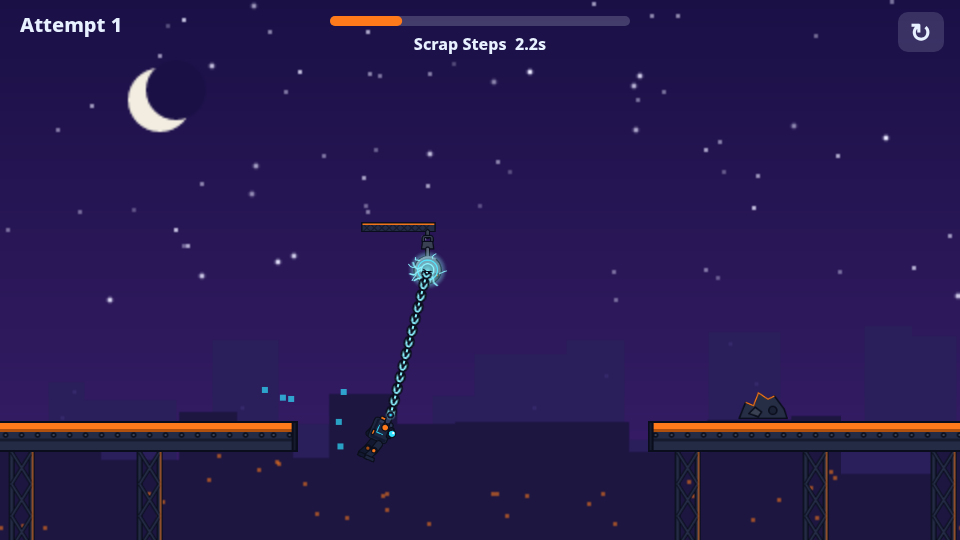
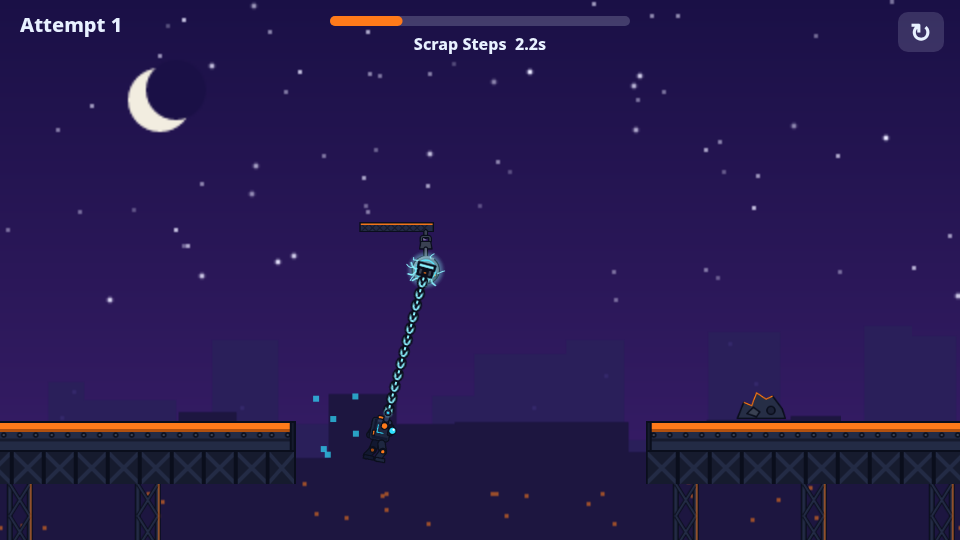
Clean title menu (START + LEVELS), separate level-select screen with Back

diff --git a/main.js b/main.js
@@ -13,20 +13,23 @@ let ac=null;function blip(f,d,type){try{ac=ac||new AudioContext();const o=ac.cre
 function start(i){for(const k in evT)delete evT[k];prevMode='ground';bot=null;tapQ=false;li=i;s=S.create(i);screen='play';camX=0;parts=[];trail=[];}
 function restart(){attempts++;start(li);}
 function burst(x,y,col,n){for(let i=0;i<n;i++){const a=Math.random()*6.28,v=60+Math.random()*260;parts.push({x,y,vx:Math.cos(a)*v,vy:Math.sin(a)*v-80,l:.6,col});}}
-function menuAct(){if(screen==='title'){attempts=1;start(sel);}else if(screen==='done'){if(sel===0&&li+1<S.LEVELS.length){attempts=1;start(li+1);}else if(sel===1){attempts=1;start(li);}else{screen='title';sel=Math.min(li+1,S.LEVELS.length-1);}}}
+const firstOpen=()=>{const i=S.LEVELS.findIndex((_,i)=>!best[i]);return i<0?0:i;};
+function menuAct(){if(screen==='title'){attempts=1;start(firstOpen());}else if(screen==='levels'){attempts=1;start(sel);}else if(screen==='done'){if(sel===0&&li+1<S.LEVELS.length){attempts=1;start(li+1);}else if(sel===1){attempts=1;start(li);}else{screen='title';sel=Math.min(li+1,S.LEVELS.length-1);}}}
+function openLevels(){screen='levels';sel=firstOpen();}
 addEventListener('keydown',e=>{const k=e.code;if(keys[k])return;keys[k]=true;
  if(['Space','ArrowUp','ArrowDown','ArrowLeft','ArrowRight'].includes(k))e.preventDefault();
- if(screen!=='play'){const n=screen==='title'?S.LEVELS.length:3;
+ if(screen!=='play'){if(screen==='title'){if(k==='KeyL')openLevels();else if(k==='Enter'||k==='Space')menuAct();return;}const n=screen==='levels'?S.LEVELS.length:3;
   if(k==='ArrowLeft'||k==='KeyA')sel=(sel+n-1)%n;if(k==='ArrowRight'||k==='KeyD')sel=(sel+1)%n;
-  const st=screen==='title'?4:1;if(k==='ArrowUp'||k==='KeyW')sel=(sel+n-st)%n;if(k==='ArrowDown'||k==='KeyS')sel=(sel+st)%n;
-  if(k==='Enter'||k==='Space')menuAct();if(k==='Escape')screen='title';return;}
+  const st=screen==='levels'?4:1;if(k==='ArrowUp'||k==='KeyW')sel=(sel+n-st)%n;if(k==='ArrowDown'||k==='KeyS')sel=(sel+st)%n;
+  if(k==='Enter'||k==='Space')menuAct();if(k==='Escape'||k==='Backspace')screen='title';return;}
  if(k==='KeyR'){restart();}if((k==='Space'||k==='ArrowUp'||k==='KeyW')&&!e.repeat)tapQ=true;if(k==='Escape'){screen='title';sel=li;}});
 addEventListener('keyup',e=>{keys[e.code]=false;});
 function tpos(t){const r=cv.getBoundingClientRect(),d=devicePixelRatio||1;return {x:((t.clientX-r.left)*d-ox)/scale,y:((t.clientY-r.top)*d-oy)/scale};}
 let menuBoxes=[];
 function onDown(pt){if(screen!=='play'){let hit=null;const P=18;for(const b of menuBoxes)if(pt.x>b.x-P&&pt.x<b.x+b.w+P&&pt.y>b.y-P&&pt.y<b.y+b.h+P){hit=b;break;}
+  if(hit&&hit.i==='levels'){openLevels();return;}if(hit&&hit.i==='back'){screen='title';return;}
   if(hit){if(hit.i!=='start')sel=hit.i;}else if(screen!=='title')return;
-  if(screen==='title'){attempts=1;start(sel);}else menuAct();return;}
+  menuAct();return;}
  if(pt.x>VW-70&&pt.y<60){restart();return;}if(!inPump(pt))tapQ=true;}
 const isG=pt=>screen==='play'&&!inPump(pt)&&!(pt.x>VW-70&&pt.y<60);
 cv.addEventListener('pointerdown',e=>{e.preventDefault();try{cv.setPointerCapture(e.pointerId)}catch(_){}const pt=tpos(e);pt.g=isG(pt);onDown(pt);ptrs[e.pointerId]=pt;updDir();});
@@ -141,15 +144,18 @@ function button(x,y,w,h,label,i,on,ring){if(ring)rr(x-5,y-5,w+10,h+10,18,C.playe
 function draw(){cx.setTransform(1,0,0,1,0,0);cx.fillStyle=C.sky;cx.fillRect(0,0,cv.width,cv.height);cx.setTransform(scale,0,0,scale,ox,oy);
  cx.save();cx.beginPath();cx.rect(0,0,VW,VH);cx.clip();const gr=cx.createLinearGradient(0,0,0,VH);gr.addColorStop(0,C.sky);gr.addColorStop(1,C.sky2);C=ART.ok?CN:C0;if(ART.ok)drawBG(screen==='title'?performance.now()/30:camX);else{cx.fillStyle=gr;cx.fillRect(0,0,VW,VH);}
  menuBoxes=[];
- if(screen==='title'){if(ART.ok)drawBot('idle_0'+(Math.floor(performance.now()/180)%4),VW/2+330,150,0,0.8,false);txt('SWING',VW/2-130,92,72,C.player);txt('grab • swing • release',VW/2-130,124,18);
-  button(VW/2+20,40,250,80,`▶ START`,'start',true);txt(`${sel+1}. ${S.LEVELS[sel].name}`,VW/2+145,140,16,C.text);
-  const DC={easy:'#3ec46d',normal:'#2FE0FF',hard:'#ff4d6d'},done=Object.keys(best).length;
-  S.LEVELS.forEach((L,i)=>{const c=i%4,rw=(i/4)|0,x=VW/2-430+c*218,y=160+rw*92,w=206,h=80,on=sel===i;
+ const HELP='Press SPACE/↑/W or screen to grab   •   let go to launch   •   ←/→, A/D or bottom corners = pump   •   R = restart';
+ if(screen==='title'){const fo=firstOpen(),done=Object.keys(best).length;if(ART.ok)drawBot('idle_0'+(Math.floor(performance.now()/180)%4),VW/2+290,250,0,1.1,false);
+  txt('SWING',VW/2,140,110,C.player);txt('grab • swing • release',VW/2,180,22);
+  button(VW/2-190,220,380,100,'▶  START','start',true);txt(`${fo+1}. ${S.LEVELS[fo].name}  •  ${done}/${S.LEVELS.length} cleared`,VW/2,350,17,C.text);
+  button(VW/2-110,380,220,60,'LEVELS','levels',false);txt(HELP,VW/2,510,14);}
+ else if(screen==='levels'){const DC={easy:'#3ec46d',normal:'#2FE0FF',hard:'#ff4d6d'},done=Object.keys(best).length;
+  button(20,18,140,56,'◀ Back','back',false);txt('LEVELS',VW/2,62,44,C.player);txt(`${done}/${S.LEVELS.length} cleared`,VW-30,58,18,'#3ec46d','right');
+  S.LEVELS.forEach((L,i)=>{const c=i%4,rw=(i/4)|0,x=VW/2-430+c*218,y=110+rw*100,w=206,h=86,on=sel===i;
    if(on)rr(x-4,y-4,w+8,h+8,16,C.player);rr(x,y,w,h,12,C.btn||'#fff');rr(x,y,8,h,4,DC[L.diff]||'#888');
-   txt(`${i+1}. ${L.name}`,x+18,y+32,19,C.text,'left');txt(L.diff.toUpperCase(),x+18,y+60,13,DC[L.diff],'left');
-   if(best[i]){txt('✓ '+best[i].toFixed(1)+'s',x+w-12,y+60,14,'#3ec46d','right');}menuBoxes.push({x,y,w,h,i});});
-  txt(`${done}/${S.LEVELS.length} cleared`,VW/2-130,146,14,"#3ec46d");
-  txt('Press SPACE/↑/W or screen to grab   •   let go to launch   •   ←/→, A/D or bottom corners = pump   •   R = restart',VW/2,522,14);}
+   txt(`${i+1}. ${L.name}`,x+18,y+34,19,C.text,'left');txt(L.diff.toUpperCase(),x+18,y+64,13,DC[L.diff],'left');
+   if(best[i]){txt('✓ '+best[i].toFixed(1)+'s',x+w-12,y+64,14,'#3ec46d','right');}menuBoxes.push({x,y,w,h,i});});
+  txt('Tap a level to play  •  ←↑→↓ + Enter  •  Esc = back',VW/2,510,15);}
  else{if(ART.ok)drawWorldArt();else drawWorld();if(screen==='done'){cx.fillStyle=ART.ok?'rgba(10,14,28,.72)':'rgba(255,255,255,.75)';cx.fillRect(0,0,VW,VH);txt('Level complete!',VW/2,170,56,C.player);if(ART.ok)drawBot('idle_0'+(Math.floor(performance.now()/180)%4),VW/2,470,0,0.9,false);
   txt(`Time ${doneT.toFixed(2)}s   •   Attempts ${attempts}`,VW/2,225,24);
   const hasNext=li+1<S.LEVELS.length;button(VW/2-330,280,200,70,hasNext?'Next level':'—',0,sel===0);button(VW/2-100,280,200,70,'Replay',1,sel===1);button(VW/2+130,280,200,70,'Menu',2,sel===2);}}

diff --git a/test/touch.js b/test/touch.js
@@ -8,12 +8,15 @@ for(const noRR of [false,true])for(const [w,h,d,mob] of [[960,540,1,false],[844,
  const p=await b.newPage();const errs=[];p.on('pageerror',e=>errs.push(String(e)));p.on('console',m=>{if(m.type()==='error')errs.push(m.text())});
  if(noRR)await p.evaluateOnNewDocument(()=>{delete CanvasRenderingContext2D.prototype.roundRect;});
  await p.setViewport({width:w,height:h,deviceScaleFactor:d,isMobile:mob,hasTouch:mob||mode==='touch'});
- await p.goto(URL+'?nc='+Date.now(),{waitUntil:'load',timeout:60000});await new Promise(r=>setTimeout(r,400));
- await p.waitForFunction(()=>window.__swing.art().ok||window.__swing.art().failed.length,{timeout:30000}).catch(()=>{});const art=await p.evaluate(()=>window.__swing.art());if(!art.ok||art.failed.length)errs.push('art '+JSON.stringify(art.failed)+' res'+art.res);const r=[];await tap(p,mode,625,80,w,h);r.push(await p.evaluate(()=>window.__swing.screen+':'+window.__swing.state.li));// START
- await p.evaluate(()=>{window.__swing.state.done=true;window.__swing.setScreen('done')});await new Promise(r=>setTimeout(r,100));await tap(p,mode,480+30,315,w,h);r.push(await p.evaluate(()=>window.__swing.screen));// replay
- await p.evaluate(()=>window.__swing.setScreen('done'));await new Promise(r=>setTimeout(r,100));await tap(p,mode,480+230,315,w,h);r.push(await p.evaluate(()=>window.__swing.screen));// menu
- await tap(p,mode,371,200,w,h);r.push(await p.evaluate(()=>window.__swing.screen+':'+window.__swing.state.li));// level 2 card
- await p.evaluate(()=>window.__swing.setScreen('title'));await tap(p,mode,120,120,w,h);r.push(await p.evaluate(()=>window.__swing.screen));// tap anywhere
- const ok=r.join()===['play:0','play','title','play:1','play'].join()&&!errs.length;if(!ok)fails++;
+ await p.goto(URL+'?nc='+Date.now(),{waitUntil:'load',timeout:60000});await p.evaluate(()=>localStorage.clear());await new Promise(r=>setTimeout(r,400));
+ await p.waitForFunction(()=>window.__swing.art().ok||window.__swing.art().failed.length,{timeout:30000}).catch(()=>{});const art=await p.evaluate(()=>window.__swing.art());if(!art.ok||art.failed.length)errs.push('art '+JSON.stringify(art.failed)+' res'+art.res);const r=[];const sc=()=>p.evaluate(()=>window.__swing.screen),W=ms=>new Promise(r=>setTimeout(r,ms));
+ await tap(p,mode,480,270,w,h);r.push(await p.evaluate(()=>window.__swing.screen+':'+window.__swing.state.li));// title START
+ await p.evaluate(()=>{window.__swing.state.done=true;window.__swing.setScreen('done')});await W(100);await tap(p,mode,510,315,w,h);r.push(await sc());// replay
+ await p.evaluate(()=>window.__swing.setScreen('done'));await W(100);await tap(p,mode,710,315,w,h);r.push(await sc());// menu -> title
+ await W(100);await tap(p,mode,480,410,w,h);r.push(await sc());// LEVELS opens grid (must not start)
+ await W(100);await tap(p,mode,371,153,w,h);r.push(await p.evaluate(()=>window.__swing.screen+':'+window.__swing.state.li));// pick level 2
+ await p.evaluate(()=>window.__swing.setScreen('levels'));await W(100);await tap(p,mode,90,46,w,h);r.push(await sc());// Back
+ await W(100);await tap(p,mode,100,300,w,h);r.push(await sc());// tap anywhere on title
+ const ok=r.join()===['play:0','play','title','levels','play:1','title','play'].join()&&!errs.length;if(!ok)fails++;
  console.log(ok?'PASS':'FAIL',`art@${art.res}x `+`${noRR?'no-roundRect ':''}${w}x${h}@${d} ${mode}:`,r.join(' '),errs.join('|'));await p.close();}
 await b.close();srv&&srv.close();console.log(fails?fails+' FAILED':'ALL PASS');})();

diff --git a/test/shots.js b/test/shots.js
@@ -3,7 +3,7 @@ const BASE=process.argv[2];let srv;
 (async()=>{let url=BASE;if(!url){srv=http.createServer((q,r)=>{const f=path.join(root,decodeURIComponent(q.url.split('?')[0])==='/'?'index.html':q.url.split('?')[0]);fs.readFile(f,(e,d)=>{if(e){r.writeHead(404);return r.end();}r.writeHead(200);r.end(d);});});await new Promise(r=>srv.listen(0,'127.0.0.1',r));url=`http://127.0.0.1:${srv.address().port}/`;}
 const b=await pup.launch({executablePath:'/usr/bin/google-chrome',args:['--no-sandbox']});const p=await b.newPage();await p.setViewport({width:960,height:540});const errs=[];p.on('pageerror',e=>errs.push(String(e)));p.on('console',m=>{if(m.type()==='error')errs.push(m.text())});
 await p.goto(url,{waitUntil:'load'});await p.evaluate(()=>{localStorage.setItem('swing.best',JSON.stringify({0:7.6,1:7.5,4:5.7}))});await p.reload({waitUntil:'load'});
-await p.waitForFunction(()=>window.__swing.art().ok,{timeout:30000});await new Promise(r=>setTimeout(r,300));await p.screenshot({path:root+'/shots/lv-select.png'});
+await p.waitForFunction(()=>window.__swing.art().ok,{timeout:30000});await new Promise(r=>setTimeout(r,300));await p.screenshot({path:root+'/shots/menu-title.png'});await p.evaluate(()=>window.__swing.setScreen('levels'));await new Promise(r=>setTimeout(r,200));await p.screenshot({path:root+'/shots/menu-levels.png'});
 const S=require('../sim.js');
 for(let li=0;li<S.LEVELS.length;li++){await p.evaluate((li,seq,A,CH)=>window.__swing.playBot(li,seq,A,CH),li,sol[li],A,CH);
  if({3:'easy',9:'normal',11:'hard'}[li]){await p.waitForFunction(()=>window.__swing.state.p.mode==='swing'&&window.__swing.state.t>2,{timeout:20000});await p.screenshot({path:root+`/shots/lv-${{3:'easy',9:'normal',11:'hard'}[li]}.png`});}

diff --git a/index.html b/index.html
@@ -1,4 +1,4 @@
 <!doctype html><html><head><meta charset="utf-8"><meta name="viewport" content="width=device-width,initial-scale=1,user-scalable=no">
 <link rel="icon" href="data:,"><title>Swing</title><style>html,body{margin:0;height:100%;background:#8fd3ff;overflow:hidden;touch-action:none;user-select:none;-webkit-user-select:none}
 canvas{display:block;width:100vw;height:100vh}</style></head><body><canvas id="c"></canvas>
-<script src="sim.js?v=ec4f18a"></script><script src="art.js?v=ec4f18a"></script><script src="main.js?v=ec4f18a"></script></body></html>
+<script src="sim.js?v=2b9b3e8"></script><script src="art.js?v=2b9b3e8"></script><script src="main.js?v=2b9b3e8"></script></body></html>

diff --git a/art.js b/art.js
@@ -11,5 +11,5 @@ for(const k of ['ring_magnet','pad_anchor']){LIST.anchors.push(k+'_idle');for(le
 const A={ok:false,failed:0,loaded:0,total:0,img:{},hands:HANDS,anim,failedList:[]};
 A.load=function(scaleHint){const k=scaleHint>=2.2?3:scaleHint>=1.3?2:1,suf=k===1?'':'@'+k+'x';A.res=k;
  for(const d in LIST)for(const n of LIST[d]){A.total++;const im=new Image();im.onload=()=>{A.loaded++;if(A.loaded===A.total&&!A.failed)A.ok=true;};
-  im.onerror=()=>{A.failed++;A.failedList.push(d+'/'+n);};im.src=`art/${d}/${n}${suf}.png?v=ec4f18a`;A.img[n]=im;}};
+  im.onerror=()=>{A.failed++;A.failedList.push(d+'/'+n);};im.src=`art/${d}/${n}${suf}.png?v=2b9b3e8`;A.img[n]=im;}};
 window.SwingArt=A;})();
